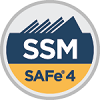
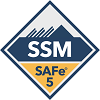
Changes to profile

diff --git a/index.html b/index.html
@@ -30,12 +30,13 @@
 <body style="width: 99%; margin: 0 auto; background: rgba(51, 122, 183, 1);">
     <section id="badge" data-stellar-background-ratio="0.5" data-stellar-vertical-offset="50">
         <div id="badges" class="badge-circle-text-container">
-            <img class="badge-circle z-depth-1-half" src="assets/images/badges/MCSA-Cloud Platform - 2017.png" />
-            <img class="badge-circle z-depth-1-half" src="assets/images/badges/MCSE- Cloud Platform - 2017.png" />
-            <img class="badge-circle z-depth-1-half" src="assets/images/badges/MCSA-Office-365-2018.png" />
-            <img class="badge-circle z-depth-1-half" src="assets/images/badges/cert_mark_SSM_small_150px.png" />
             <img class="badge-circle z-depth-1-half"
                 src="assets/images/badges/microsoft-certified-azure-solutions-architect-expert.png" />
+            <img class="badge-circle z-depth-1-half" src="assets/images/badges/MCSA-Office-365-2018.png" />
+            <img class="badge-circle z-depth-1-half" src="assets/images/badges/MCSA-Cloud Platform - 2017.png" />
+            <img class="badge-circle z-depth-1-half" src="assets/images/badges/MCSE- Cloud Platform - 2017.png" />
+            <img class="badge-circle z-depth-1-half" src="assets/images/badges/aws certified cloud practitioner.JPG" />
+            <img class="badge-circle z-depth-1-half" src="assets/images/badges/cert_mark_SSM_small_150px.png" />
         </div>
     </section>
     <!-- Introduction Banner -->
@@ -147,7 +148,7 @@
                         <div class="col s12" style="text-align: center;  font-weight: lighter;">
                             <img class="circle z-depth-1-half" style="max-height: 15rem;"
                                 src="assets/images/disp-pic.jpg" />
-                            <p>I am currently working with Infosys Ltd. in Houston, TX as a Technology Lead.</p>
+                            <p>I am currently working with Infosys Ltd. in Pune, MH, India as a Technical Project Manager.</p>
                             <p>I am an experienced IT professional with over 11 years of industry in delivering
                                 complete solutions using Microsoft Technology Stack - Microsoft
                                 Azure, Microsoft SharePoint, Microsoft Office 365, .NET/SPFx/.NET Core Development
@@ -186,13 +187,39 @@
                                 <div class="timeline-icon">
                                     <h3 style="text-align:center;">
                                         <i class="fa fa-map-marker"></i>
+                                        <span class="timeline span">Pune, MH, India</span>
+                                    </h3>
+                                </div>
+                                <div class="timeline-content col s12-exp m5 z-depth-2">
+                                    <h5 class="white-text">Technical Project Manager</h5>
+                                    <h6 class="white-text">Infosys Limited</h6>
+                                    <h6 class="white-text">Oct 2019 - Present</h6>
+                                    <p style="color: ghostwhite; font-weight: normal;">
+                                        <b></b>In the role of Technical Project Manager, I am playing the role of Technical Architect. 
+                                        I have been tasked to lead an automation team which will cut across multiple client accounts currently 
+                                        executing Azure projects to identify automation opportunities, architecting solutions for automating
+                                        business processes, improving operations and enhance overall end user experience.
+                                    </p>
+                                    <div class="divider"></div>
+                                    <p style="color: ghostwhite;font-weight: normal;">
+                                        <b>Technology Highlights:</b> Microsoft Azure, Azure DevOps, ARM Templates, Azure API Management, Microsoft Cognitive Services, Azure App
+                                        Services, Microsoft SharePoint Online, ServiceNow, Terraform, C#, .Net, REST API, PowerShell
+                                    </p>
+                                </div>
+                            </div>
+                        </li>
+                        <li>
+                            <div class="row wow fadeInUp">
+                                <div class="timeline-icon">
+                                    <h3 style="text-align:center;">
+                                        <i class="fa fa-map-marker"></i>
                                         <span class="timeline span">Houston, TX, USA</span>
                                     </h3>
                                 </div>
                                 <div class="timeline-content col s12-exp m5 z-depth-2">
                                     <h5 class="white-text">Technology Lead</h5>
                                     <h6 class="white-text">Infosys Limited</h6>
-                                    <h6 class="white-text">Aug 2014 - Present</h6>
+                                    <h6 class="white-text">Aug 2014 - Sept 2019</h6>
                                     <p style="color: ghostwhite; font-weight: normal;">
                                         <b></b>In this customer facing role of Technology Lead, I was trusted with the
                                         responsiblity to lead
@@ -413,9 +440,19 @@
                         Date: Nov 30, 2018
                     </p>
                 </a>
+                <a class="carousel-item z-depth-2" href="#nine!" style="padding-top: 30px; background-color: #3a3633;">
+                    <h5>
+                        Amazon&reg; AWS Certified Cloud Practitioner
+                    </h5>
+                    <div class="divider"></div>
+                    <p style=" font-weight: bold;">
+                        Date: Dec 13, 2019 <br />
+                        Valid until: Dec 13, 2022
+                    </p>
+                </a>
                 <a class="carousel-item z-depth-2" href="#five!" style="padding-top: 60px;background-color: #e4ae39">
                     <h5>
-                        SAFe&reg; Certified SAFe 4 Scrum Master
+                        SAFe&reg; Certified SAFe 5 Scrum Master
                     </h5>
                     <div class="divider"></div>
                     <p style="font-weight: bold;">

diff --git a/assets/css/style.css b/assets/css/style.css
@@ -222,7 +222,7 @@ animation: scroll-right 15s linear infinite;
 .badge-circle 
 {
     border-radius: 50%; 
-    margin-right: 10%;
+    margin-right: 5%;
     max-height: 8rem;
 }
 .badge-circle-text-container {
